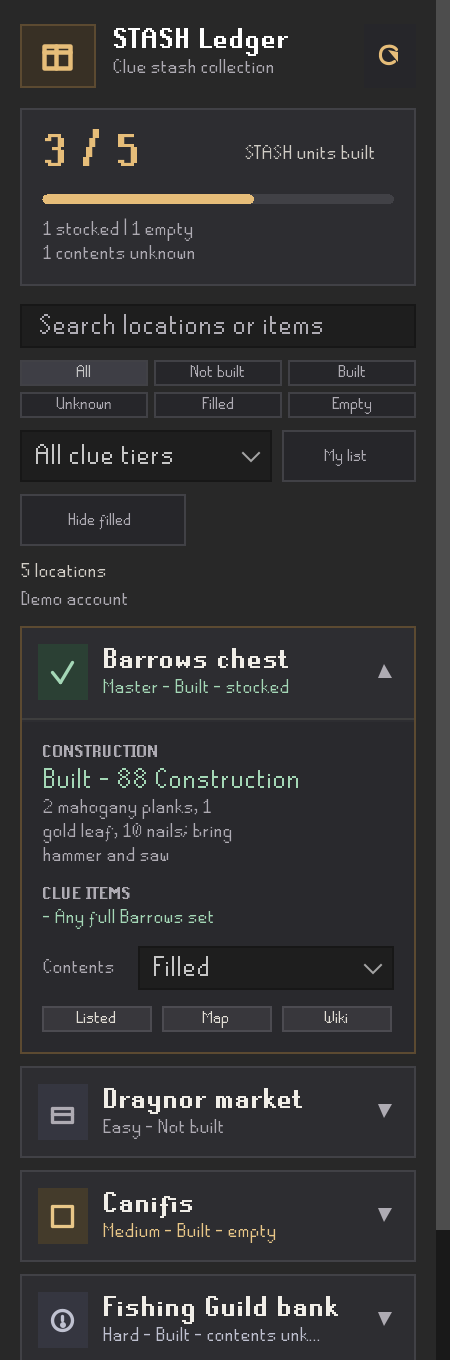
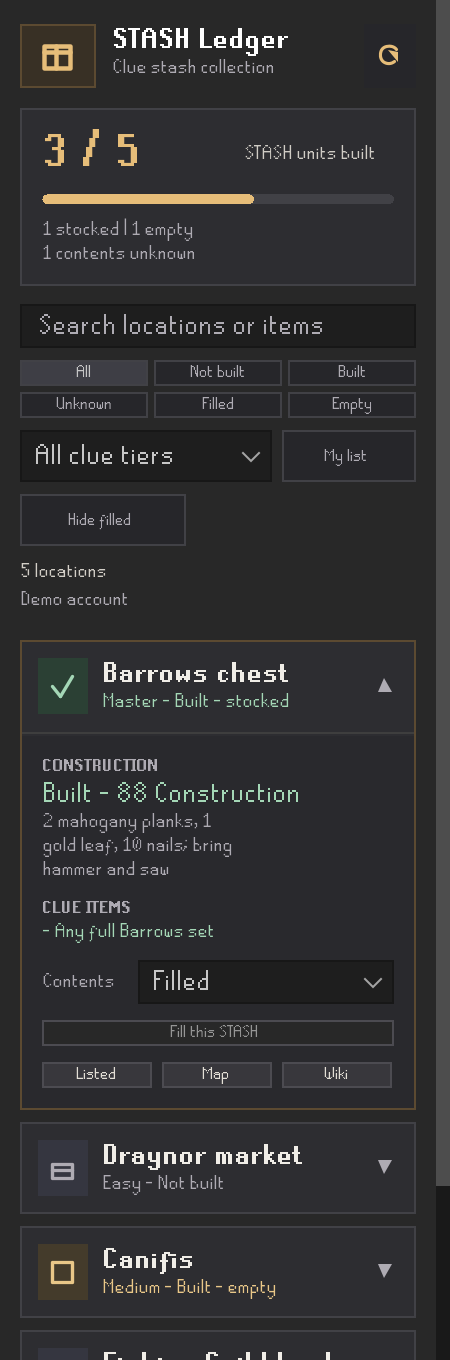
docs: record verified0.1.1 tests proofs and rendered sidebar evidence
Candidate3fee9c7 passed96Java,6Python and35actualsource-onlyred/exactrestore/green proofs. Retain failed exploratory height-mutation history and explicit live/publication gaps. Documentation and demo images only.

diff --git a/docs/validation.md b/docs/validation.md
@@ -1,4 +1,48 @@
-# Candidate validation
+# Version 0.1.1 validation
+
+Validated on 2026-11-11 local (2026-11-12 UTC) against RuneLite 1.13.6.
+Executable and test candidate: `3fee9c790ccbe55cf539df481cae4cb249c69141`.
+Subsequent documentation commits do not change executable inputs.
+
+- 96 Java tests passed, with zero failures, errors or skips. Six Python catalog
+  tests passed. Java 17 built Java 11 bytecode.
+- All 35 named source-only regression proofs failed when their guard was removed
+  and passed after exact byte restoration. Each source hash was checked against
+  the candidate commit. The final complete suite ran again after all proofs.
+- New coverage verifies single-STASH eligibility and account boundaries, queued
+  stale clicks, completion/logout cleanup, destination deduplication across item
+  variants, real outline pixels, hover menu/drag/pointer restrictions, bounded
+  hover details, and sidebar selection/stop callbacks.
+- Both plugin and runnable JARs built; the runnable JAR passed headless launcher
+  help with assertions enabled. Packaged notices and plugin metadata match source.
+- The actual Swing sidebar rendered at 225px width in its normal and selected
+  fill states. The longest real catalog name and full fill instructions fit,
+  including the Stop control. Both final renders were visually inspected.
+
+A speculative status-height change was withdrawn after two actual negative
+checks disproved the concern. The stronger preferred-height and containment test
+remains; the unsupported mutation was removed with an explicit commit reason.
+No test assertions were weakened. Those first two runs were not release passes.
+
+Verified fleet ticket: `vps-f17c10edb8264cdaa53ce2ab62ed3a35`.
+The exported source receipt, artifact hashes and completed archive/retirement
+were checked. Source and guarding tests are in separate commits.
+
+```text
+e7cc5f17cd44e9873678c03958080603049f7ed6fa09c0ead2d57e3f03e8eb45  stash-ledger-0.1.1.jar
+53e187c3098aa0105e1f5cfa93723ae92655d8acb8345afff4b249b51cba03de  stash-ledger-0.1.1-all.jar
+```
+
+Version 0.1.1's Plugin Hub review and official distribution are pending. The
+new bank outlines, hover and fill mode have automated coverage; a live in-game
+bank/contents/account-switch pilot has not been performed. Existing live checks
+listed below apply to the earlier candidate only.
+
+![Selected fill mode with demo progress](fill-mode-preview.png)
+
+---
+
+# Version 0.1.0 historical validation
 
 Validated 2026-11-11 against RuneLite 1.13.6. Official Plugin Hub distribution
 was verified on 2026-11-12 UTC after the submission was merged.

diff --git a/README.md b/README.md
@@ -97,7 +97,7 @@ it does not guess interchangeable items. See [catalog provenance](docs/catalog-p
 [third-party notices](THIRD_PARTY_NOTICES), and [license](LICENSE).
 
 Version `0.1.1` adds the item outlines, hover details and selected-STASH mode
-described above. Its update submission is being validated.
+described above. Its validated update is awaiting Plugin Hub submission and review.
 
 Version `0.1.0` is available in RuneLite's Plugin Hub. The
 [submission](https://github.com/runelite/plugin-hub/pull/20516) was merged on
